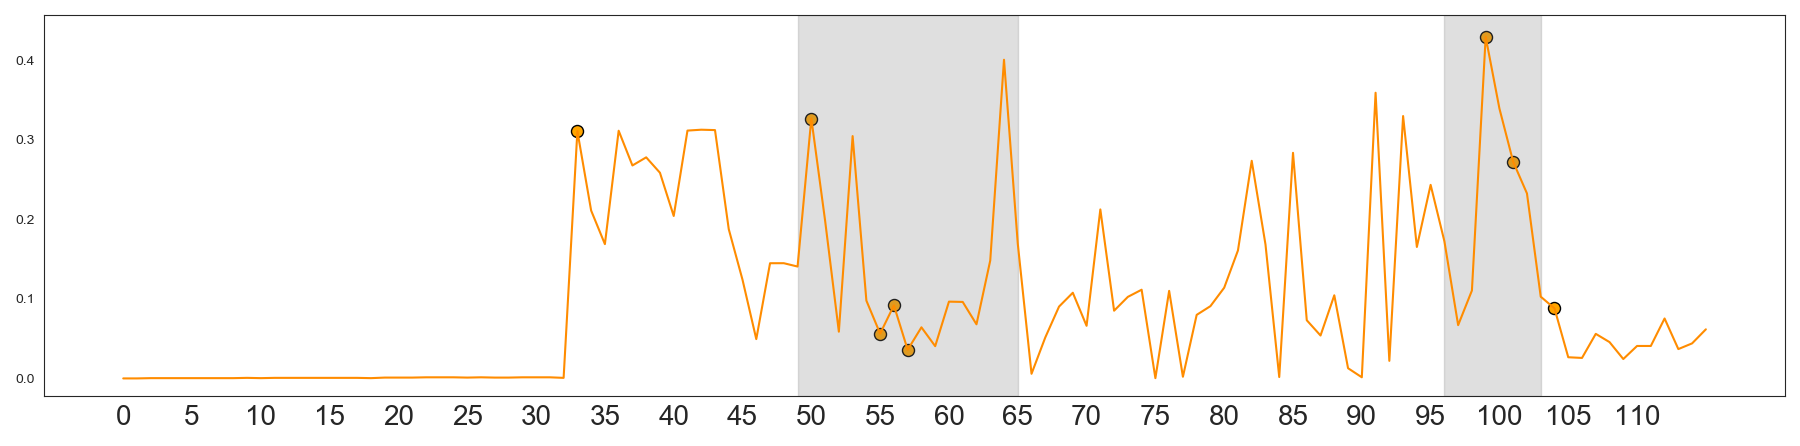
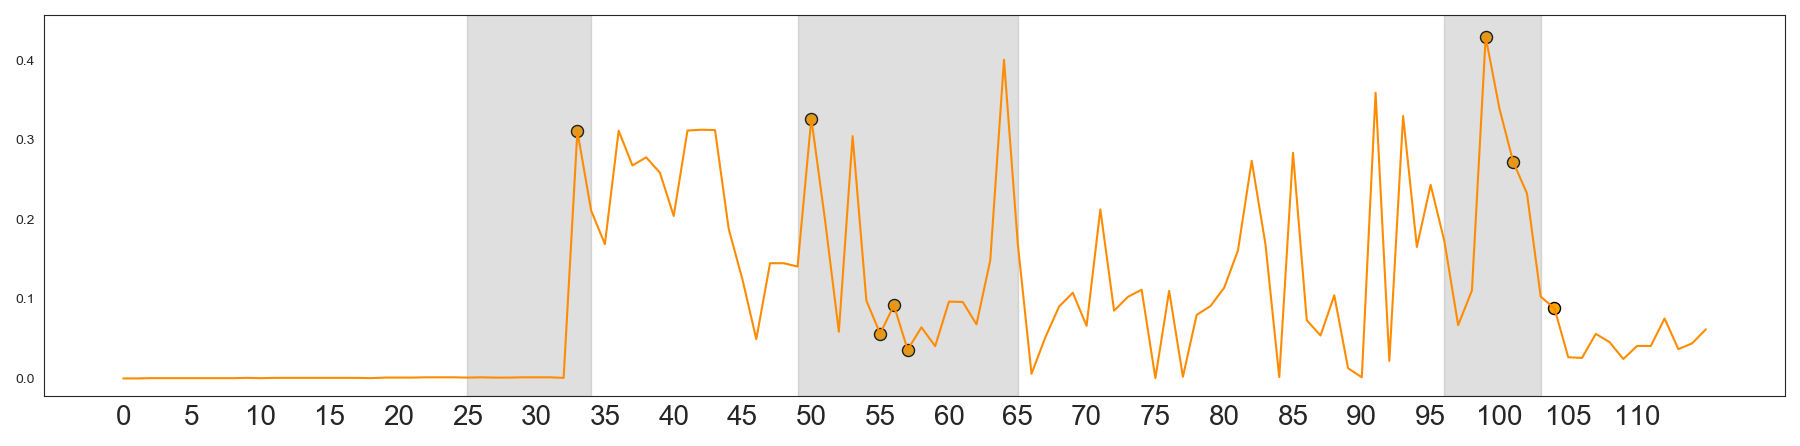
update library extrap figs

Changed region(s): [[0.2489, 0.0291, 0.3422, 0.9036]]

diff --git a/Emily Code/8.4.20_node_identification.py b/Emily Code/8.4.20_node_identification.py
@@ -48,7 +48,6 @@ cmap4 = LinearSegmentedColormap.from_list("mycmap", colormap4)
 cmap5 = LinearSegmentedColormap.from_list("mycmap", colormap5)
 
 sns.set_style("white")
-%matplotlib automatic
 
 
 #%%
@@ -299,6 +298,7 @@ xticks = np.arange(0,115,5)
 fig, ax = plt.subplots(figsize = (18,4.5))
 ax.plot(pval_849)
 ax.scatter(mutation_x, [pval_849[i] for i in mutation_x], c = 'blue', s = 75, edgecolor = 'k')
+ax.axvspan(25, 34, alpha = 0.25, color = 'grey')
 ax.axvspan(49, 65, alpha = 0.25, color='grey')
 ax.axvspan(96, 103, alpha = 0.25, color='grey')
 plt.xticks(ticks = xticks, fontsize = 20)
@@ -307,6 +307,7 @@ plt.tight_layout()
 fig, ax = plt.subplots(figsize = (18,4.5))
 ax.plot(pval_1146, c = 'darkorange')
 ax.scatter(mutation_x, [pval_1146[i] for i in mutation_x], c = 'orange', s = 75, edgecolor = 'k')
+ax.axvspan(25, 34, alpha = 0.25, color = 'grey')
 ax.axvspan(49, 65, alpha = 0.25, color='grey')
 ax.axvspan(96, 103, alpha = 0.25, color='grey')
 plt.xticks(ticks = xticks, fontsize = 20)
@@ -315,6 +316,7 @@ plt.tight_layout()
 fig, ax = plt.subplots(figsize = (18,4.5))
 ax.plot(pval_1899, c = 'green')
 ax.scatter(mutation_x, [pval_1899[i] for i in mutation_x], c = 'green', s = 75, edgecolor = 'k')
+ax.axvspan(25, 34, alpha = 0.25, color = 'grey')
 ax.axvspan(49, 65, alpha = 0.25, color='grey')
 ax.axvspan(96, 103, alpha = 0.25, color='grey')
 plt.xticks(ticks = xticks, fontsize = 20)
@@ -326,6 +328,7 @@ xticks = np.arange(0,115,5)
 fig, ax = plt.subplots(figsize = (18,4.5))
 ax.plot(pval_849_diff)
 ax.scatter(mutation_x_diff, [pval_849_diff[i-1] for i in mutation_x], s = 75, c = 'blue', edgecolor = 'k', zorder = 25)
+ax.axvspan(25, 34, alpha = 0.25, color = 'grey')
 ax.axvspan(49, 65, alpha = 0.25, color='grey')
 ax.axvspan(96, 103, alpha = 0.25, color='grey')
 plt.xticks(ticks = xticks, fontsize = 20)
